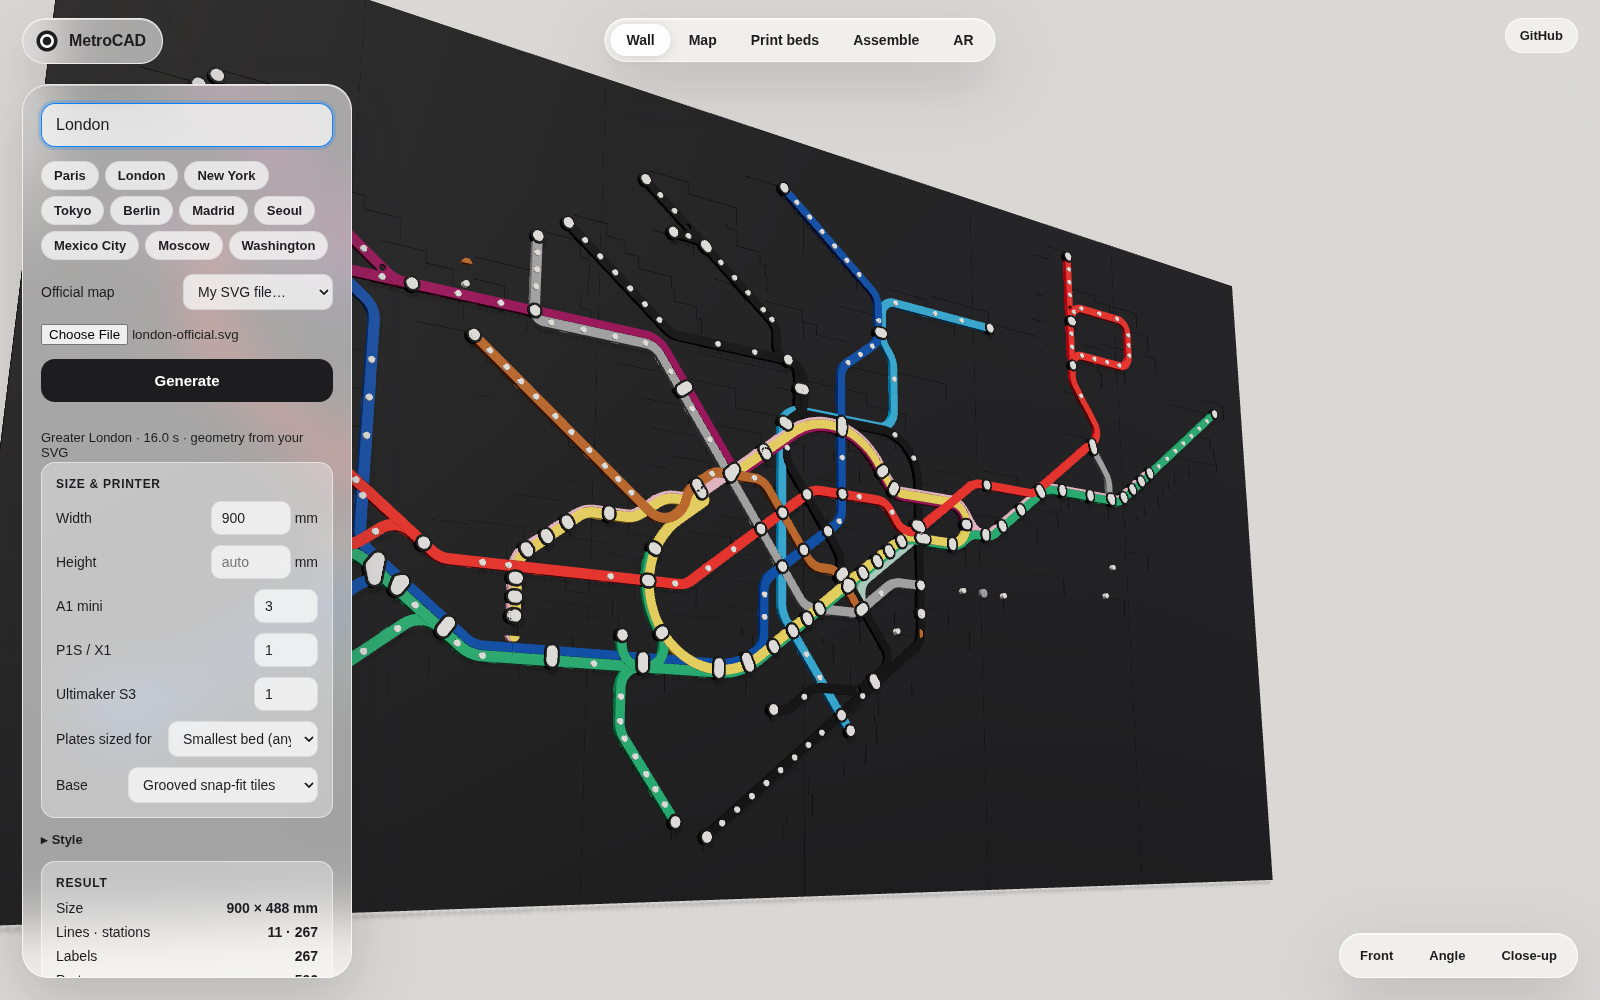
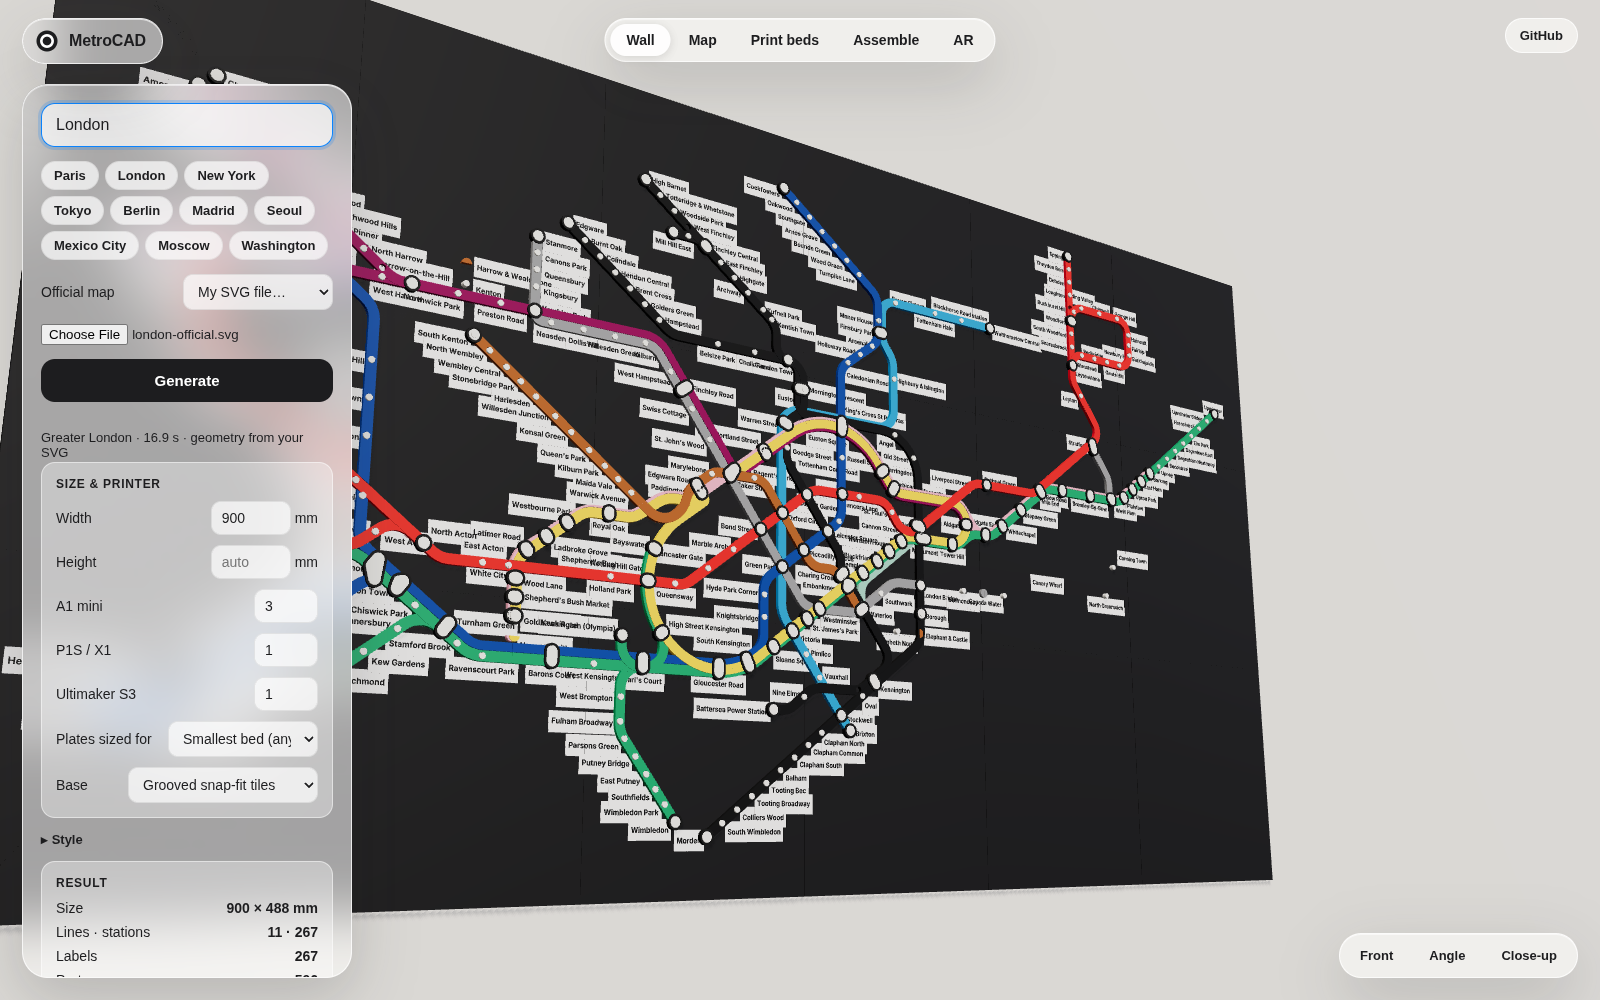
SVG import: split glyph-gap text runs, abbreviation expansion, fuzzy station matching; straight-through-interchange cost in octilinear straightener; London all-tabs screenshot script
Claude-Session: https://claude.ai/code/session_01MBsjaw49DwxCbAxCaJEcQU

diff --git a/septa-maps.html b/septa-maps.html
@@ -1,0 +1,61 @@
+<!DOCTYPE html>
+<html lang="en" data-critters-container>
+
+<head>
+  <meta charset="utf-8">
+
+  <!-- Google Tag Manager -->
+  <script>
+    (function (w, d, s, l, i) {
+      w[l] = w[l] || [];
+      w[l].push({ 'gtm.start': new Date().getTime(), event: 'gtm.js' });
+      var f = d.getElementsByTagName(s)[0],
+        j = d.createElement(s),
+        dl = l != 'dataLayer' ? '&l=' + l : '';
+      j.async = true;
+      j.src = 'https://www.googletagmanager.com/gtm.js?id=' + i + dl;
+      f.parentNode.insertBefore(j, f);
+    })(window, document, 'script', 'dataLayer', 'GTM-59M5TWG');
+  </script>
+  <!-- End Google Tag Manager -->
+
+  <title>
+    Southeastern Pennsylvania Transportation Authority | Serving Bucks, Chester, Delaware, Montgomery, and
+    Philadelphia counties
+  </title>
+  <base href="/">
+  <meta name="viewport" content="width=device-width, initial-scale=1">
+  <meta name="description" property="og:description" content="Serving Bucks, Chester, Delaware, Montgomery, and Philadelphia counties. Call (215) 580-7800 or TDD/TTY (215) 580-7853 for Customer Service.">
+  <link rel="icon" type="image/x-icon" href="favicon.ico">
+  <link rel="manifest" href="site.webmanifest">
+  <meta name="msapplication-TileColor" content="#f3f7f7">
+  <meta name="theme-color" content="#1a1818">
+
+  <!-- Open Graph Tags -->
+  <meta name="title" property="og:title" content="Southeastern Pennsylvania Transportation Authority (SEPTA)">
+  <meta property="og:type" content="website">
+  <meta property="og:url" content="https://www.septa.org/">
+  <meta name="image" property="og:image" content="assets/images/SEPTA_logo.png">
+  <meta property="og:locale" content="en_US">
+  <!-- End Open Graph Tags -->
+  <meta name="color-scheme" content="light only">
+<style>@import"https://fonts.googleapis.com/css2?family=Roboto:wght@300;400;500;700;900&display=swap";@charset "UTF-8";html,body{scroll-behavior:smooth}:root{--bs-blue:#0d6efd;--bs-indigo:#6610f2;--bs-purple:#6f42c1;--bs-pink:#d63384;--bs-red:#dc3545;--bs-orange:#fd7e14;--bs-yellow:#ffc107;--bs-green:#198754;--bs-teal:#20c997;--bs-cyan:#0dcaf0;--bs-white:#fff;--bs-gray:#6c757d;--bs-gray-dark:#343a40;--bs-gray-100:#f8f9fa;--bs-gray-200:#e9ecef;--bs-gray-300:#dee2e6;--bs-gray-400:#ced4da;--bs-gray-500:#adb5bd;--bs-gray-600:#6c757d;--bs-gray-700:#495057;--bs-gray-800:#343a40;--bs-gray-900:#212529;--bs-primary:#0264f7;--bs-secondary:#6c757d;--bs-success:#198754;--bs-info:#0dcaf0;--bs-warning:#ffc107;--bs-danger:#dc3545;--bs-light:#f8f9fa;--bs-dark:#212529;--bs-example:#900;--bs-example2:rgb(5, 68, 0);--bs-example3:rgb(23, 100, 139);--bs-example4:rgb(175, 40, 132);--bs-trip-red:rgb(197, 58, 34);--bs-header-blue:#1f4fa3;--bs-input-blue:#103270;--bs-mfl-primary:#008ad8;--bs-mfl-secondary:#0097d6;--bs-dark-secondary:#1a1818;--bs-black:#000;--bs-bus:#1a1818;--bs-rail:#4c748c;--bs-lightergray:#eceaea;--bs-lightgray:#d5d5d5;--bs-gray:#757575;--bs-light-yellow:rgb(248, 245, 218);--bs-septa-darkblue:#202846;--bs-septa-lightblue:#1f3f7e;--bs-septa-lighterblue:#99c2ff;--bs-septa-ctablue:#2968d6;--bs-septa-accent:#10b0aa;--bs-septa-lightgray:#c4c4c4;--bs-L:#0097d6;--bs-B:#f26100;--bs-T:#5a960a;--bs-G:#ffd700;--bs-D:#dc2e6b;--bs-M:#5f249f;--bs-neutral:#000000;--bs-null:#000000;--bs-primary-rgb:2, 100, 247;--bs-secondary-rgb:108, 117, 125;--bs-success-rgb:25, 135, 84;--bs-info-rgb:13, 202, 240;--bs-warning-rgb:255, 193, 7;--bs-danger-rgb:220, 53, 69;--bs-light-rgb:248, 249, 250;--bs-dark-rgb:33, 37, 41;--bs-example-rgb:153, 0, 0;--bs-example2-rgb:5, 68, 0;--bs-example3-rgb:23, 100, 139;--bs-example4-rgb:175, 40, 132;--bs-trip-red-rgb:197, 58, 34;--bs-header-blue-rgb:31, 79, 163;--bs-input-blue-rgb:16, 50, 112;--bs-mfl-primary-rgb:0, 138, 216;--bs-mfl-secondary-rgb:0, 151, 214;--bs-dark-secondary-rgb:26, 24, 24;--bs-bus-rgb:26, 24, 24;--bs-rail-rgb:76, 116, 140;--bs-lightergray-rgb:236, 234, 234;--bs-lightgray-rgb:213, 213, 213;--bs-gray-rgb:117, 117, 117;--bs-light-yellow-rgb:248, 245, 218;--bs-septa-darkblue-rgb:32, 40, 70;--bs-septa-lightblue-rgb:31, 63, 126;--bs-septa-lighterblue-rgb:153, 194, 255;--bs-septa-ctablue-rgb:41, 104, 214;--bs-septa-accent-rgb:16, 176, 170;--bs-septa-lightgray-rgb:196, 196, 196;--bs-L-rgb:0, 151, 214;--bs-B-rgb:242, 97, 0;--bs-T-rgb:90, 150, 10;--bs-G-rgb:255, 215, 0;--bs-D-rgb:220, 46, 107;--bs-M-rgb:95, 36, 159;--bs-neutral-rgb:0, 0, 0;--bs-null-rgb:0, 0, 0;--bs-primary-text-emphasis:#052c65;--bs-secondary-text-emphasis:#2b2f32;--bs-success-text-emphasis:#0a3622;--bs-info-text-emphasis:#055160;--bs-warning-text-emphasis:#664d03;--bs-danger-text-emphasis:#58151c;--bs-light-text-emphasis:#495057;--bs-dark-text-emphasis:#495057;--bs-primary-bg-subtle:#cfe2ff;--bs-secondary-bg-subtle:#e2e3e5;--bs-success-bg-subtle:#d1e7dd;--bs-info-bg-subtle:#cff4fc;--bs-warning-bg-subtle:#fff3cd;--bs-danger-bg-subtle:#f8d7da;--bs-light-bg-subtle:#fcfcfd;--bs-dark-bg-subtle:#ced4da;--bs-primary-border-subtle:#9ec5fe;--bs-secondary-border-subtle:#c4c8cb;--bs-success-border-subtle:#a3cfbb;--bs-info-border-subtle:#9eeaf9;--bs-warning-border-subtle:#ffe69c;--bs-danger-border-subtle:#f1aeb5;--bs-light-border-subtle:#e9ecef;--bs-dark-border-subtle:#adb5bd;--bs-white-rgb:255, 255, 255;--bs-black-rgb:0, 0, 0;--bs-font-sans-serif:system-ui, -apple-system, "Segoe UI", Roboto, "Helvetica Neue", "Noto Sans", "Liberation Sans", Arial, sans-serif, "Apple Color Emoji", "Segoe UI Emoji", "Segoe UI Symbol", "Noto Color Emoji";--bs-font-monospace:SFMono-Regular, Menlo, Monaco, Consolas, "Liberation Mono", "Courier New", monospace;--bs-gradient:linear-gradient(180deg, rgba(255, 255, 255, .15), rgba(255, 255, 255, 0));--bs-body-font-family:"Roboto", sans-serif;--bs-body-font-size:1rem;--bs-body-font-weight:400;--bs-body-line-height:1.5;--bs-body-color:#212529;--bs-body-color-rgb:33, 37, 41;--bs-body-bg:#fff;--bs-body-bg-rgb:255, 255, 255;--bs-emphasis-color:#000;--bs-emphasis-color-rgb:0, 0, 0;--bs-secondary-color:rgba(33, 37, 41, .75);--bs-secondary-color-rgb:33, 37, 41;--bs-secondary-bg:#e9ecef;--bs-secondary-bg-rgb:233, 236, 239;--bs-tertiary-color:rgba(33, 37, 41, .5);--bs-tertiary-color-rgb:33, 37, 41;--bs-tertiary-bg:#f8f9fa;--bs-tertiary-bg-rgb:248, 249, 250;--bs-heading-color:inherit;--bs-link-color:#0d6efd;--bs-link-color-rgb:13, 110, 253;--bs-link-decoration:underline;--bs-link-hover-color:#0a58ca;--bs-link-hover-color-rgb:10, 88, 202;--bs-code-color:#d63384;--bs-highlight-color:#212529;--bs-highlight-bg:#fff3cd;--bs-border-width:1px;--bs-border-style:solid;--bs-border-color:#dee2e6;--bs-border-color-translucent:rgba(0, 0, 0, .175);--bs-border-radius:.375rem;--bs-border-radius-sm:.25rem;--bs-border-radius-lg:.5rem;--bs-border-radius-xl:1rem;--bs-border-radius-xxl:2rem;--bs-border-radius-2xl:var(--bs-border-radius-xxl);--bs-border-radius-pill:50rem;--bs-box-shadow:0 .5rem 1rem rgba(0, 0, 0, .15);--bs-box-shadow-sm:0 .125rem .25rem rgba(0, 0, 0, .075);--bs-box-shadow-lg:0 1rem 3rem rgba(0, 0, 0, .175);--bs-box-shadow-inset:inset 0 1px 2px rgba(0, 0, 0, .075);--bs-focus-ring-width:.25rem;--bs-focus-ring-opacity:.25;--bs-focus-ring-color:rgba(13, 110, 253, .25);--bs-form-valid-color:#198754;--bs-form-valid-border-color:#198754;--bs-form-invalid-color:#dc3545;--bs-form-invalid-border-color:#dc3545}*,*:before,*:after{box-sizing:border-box}@media (prefers-reduced-motion: no-preference){:root{scroll-behavior:smooth}}body{margin:0;font-family:var(--bs-body-font-family);font-size:var(--bs-body-font-size);font-weight:var(--bs-body-font-weight);line-height:var(--bs-body-line-height);color:var(--bs-body-color);text-align:var(--bs-body-text-align);background-color:var(--bs-body-bg);-webkit-text-size-adjust:100%;-webkit-tap-highlight-color:rgba(0,0,0,0)}iframe{border:0}:root{--bs-breakpoint-xs:0;--bs-breakpoint-sm:576px;--bs-breakpoint-md:768px;--bs-breakpoint-lg:992px;--bs-breakpoint-xl:1200px;--bs-breakpoint-xxl:1400px}:root{--bs-btn-close-filter: }:root{--bs-carousel-indicator-active-bg:#fff;--bs-carousel-caption-color:#fff;--bs-carousel-control-icon-filter: }:root{--primary-dark:#202846;--septa-lightblue:#1f3f7e;--septa-lighterblue:#99c2ff;--lightestblue:#d4e1f7;--metro-black:#1a1818;--lightgray:#ebebeb;--gray:rgb(128, 128, 128);--darkgray:#333;--realtime:#078807;--focusblue:rgb(195, 219, 255);--formborder:rgb(206, 212, 218);--danger:#c00;--table-border:#ddd;--offwhite:#f5f5f5;--realtime-map-header-height:calc(48px + 1rem);--realtime-map-controls-height:200px;--realtime-map-menu-bottom-overlap:100px;--error-color:#000;--error-bg-color:#fffcd6;--error-border-color:#dfddbc}body{font-family:Roboto,sans-serif;scrollbar-gutter:stable;max-height:100%;overflow:auto}@media screen and (prefers-reduced-motion: reduce){html,body{scroll-behavior:auto}*{animation-duration:.001ms!important;animation-iteration-count:1!important;transition-duration:.001ms!important}}</style><link rel="stylesheet" href="styles.8ee336e1b46ae5d6.css" media="print" onload="this.media='all'"><noscript><link rel="stylesheet" href="styles.8ee336e1b46ae5d6.css"></noscript></head>
+
+<body>
+  <!-- Google Tag Manager (noscript) -->
+  <noscript>
+    <iframe src="https://www.googletagmanager.com/ns.html?id=GTM-59M5TWG" height="0" width="0" style="display: none; visibility: hidden"></iframe>
+  </noscript>
+  <!-- End Google Tag Manager (noscript) -->
+
+  <app-root></app-root>
+
+  <script>
+    if (navigator.userAgent.match(/samsung/i)) {
+      alert(`Your browser (Samsung Internet) may not show this website correctly if set in dark mode. Please consider using a standards-compliant browser instead.
+          \nWe recommend Google Chrome, Firefox, or Microsoft Edge.`);
+    }
+  </script>
+<script src="runtime.362ba90a4299b06a.js" type="module"></script><script src="polyfills.79a237e0bb1e4eaf.js" type="module"></script><script src="scripts.6dd9a5b2ffc2290f.js" defer></script><script src="main.e5ec2ca8fab281f9.js" type="module"></script></body>
+
+</html>

diff --git a/packages/core/src/svgimport.ts b/packages/core/src/svgimport.ts
@@ -193,13 +193,41 @@ export function extractSvg(src: string): SvgExtract {
       else if (el.tag === 'line') addPolys([[ap(local, [Number(el.attrs.x1 ?? 0), Number(el.attrs.y1 ?? 0)]), ap(local, [Number(el.attrs.x2 ?? 0), Number(el.attrs.y2 ?? 0)])]]);
       else if (el.tag === 'polyline' || el.tag === 'polygon') { const nums = (el.attrs.points ?? '').split(/[\s,]+/).filter(Boolean).map(Number); const pts: Vec2[] = []; for (let k = 0; k + 1 < nums.length; k += 2) pts.push(ap(local, [nums[k], nums[k + 1]])); if (el.tag === 'polygon' && pts.length) pts.push(pts[0]); addPolys([pts]); }
       else if (el.tag === 'text') {
-        const name = collectText(el).replace(/\s+/g, ' ').trim();
-        if (name) {
-          const tx = Number(el.attrs.x ?? (findFirst(el, 'tspan')?.attrs.x) ?? 0), ty = Number(el.attrs.y ?? (findFirst(el, 'tspan')?.attrs.y) ?? 0);
-          const p = ap(local, [tx, ty]);
-          const angle = -Math.atan2(local[1], local[0]) * 180 / Math.PI;
-          const size = Number(String(st['font-size'] ?? '10').replace(/[a-z%]+$/, '')) * mscale(local);
-          texts.push({ name, x: p[0], y: p[1], anchor: (st['text-anchor'] as any) ?? 'start', angle: Math.round(angle * 10) / 10, size });
+        const angle = -Math.atan2(local[1], local[0]) * 180 / Math.PI;
+        const size = Number(String(st['font-size'] ?? '10').replace(/[a-z%]+$/, '')) * mscale(local);
+        const anchor = (st['text-anchor'] as any) ?? 'start';
+        const firstNum = (v?: string) => (v === undefined ? undefined : Number(String(v).trim().split(/[\s,]+/)[0]));
+        // PDF-derived SVGs put several labels into one <text>, one positioned <tspan> each: treat those separately.
+        const positioned = el.children.filter((c) => c.tag === 'tspan' && c.attrs.x !== undefined && c.attrs.y !== undefined);
+        if (positioned.length >= 2) {
+          const fs = Number(String(st['font-size'] ?? '10').replace(/[a-z%]+$/, ''));
+          for (const c of positioned) {
+            const raw = collectText(c);
+            const xs = String(c.attrs.x).trim().split(/[\s,]+/).map(Number);
+            const y = firstNum(c.attrs.y)!;
+            // Per-glyph x positions: a gap wider than ~1.2 em separates two labels on the same baseline.
+            const chars = [...raw];
+            const runs: { text: string; x: number }[] = [];
+            if (xs.length >= chars.length && chars.length > 1) {
+              let start = 0;
+              for (let k = 1; k <= chars.length; k++) {
+                if (k === chars.length || xs[k] - xs[k - 1] > fs * 1.2) { runs.push({ text: chars.slice(start, k).join(''), x: xs[start] }); start = k; }
+              }
+            } else runs.push({ text: raw, x: xs[0] });
+            for (const r of runs) {
+              const name = r.text.replace(/\s+/g, ' ').trim();
+              if (!name) continue;
+              const p = ap(local, [r.x, y]);
+              texts.push({ name, x: p[0], y: p[1], anchor, angle: Math.round(angle * 10) / 10, size });
+            }
+          }
+        } else {
+          const name = collectText(el).replace(/\s+/g, ' ').trim();
+          if (name) {
+            const tx = firstNum(el.attrs.x) ?? firstNum(findFirst(el, 'tspan')?.attrs.x) ?? 0, ty = firstNum(el.attrs.y) ?? firstNum(findFirst(el, 'tspan')?.attrs.y) ?? 0;
+            const p = ap(local, [tx, ty]);
+            texts.push({ name, x: p[0], y: p[1], anchor, angle: Math.round(angle * 10) / 10, size });
+          }
         }
       }
       else if (el.tag === 'use' || el.tag === 'circle' || el.tag === 'ellipse') {
@@ -242,6 +270,16 @@ function collectText(el: El): string {
 }
 
 /* ------------------------------ layout from SVG ------------------------------ */
+
+/** Expand the abbreviations transit maps use so they normalise like OSM names. */
+export function expandAbbrev(name: string): string {
+  return name
+    .replace(/\bTrans\.?\s*Ctr\.?/gi, 'Transportation Center').replace(/\bT\.?\s?C\.?(?=\s|$)/g, 'Transportation Center')
+    .replace(/\bSta\.?(?=\s|$)/gi, 'Station').replace(/\bSt\.(?=\s|$)/g, 'Street').replace(/\bAve\.?(?=\s|$)/gi, 'Avenue').replace(/\bRd\.?(?=\s|$)/gi, 'Road')
+    .replace(/\bJct\.?(?=\s|$)/gi, 'Junction').replace(/\bCtr\.?(?=\s|$)/gi, 'Center').replace(/\bPkwy\.?(?=\s|$)/gi, 'Parkway').replace(/\bMt\.?(?=\s)/gi, 'Mount')
+    .replace(/\bTerm\.?(?=\s|$)/gi, 'Terminal').replace(/\bTerms?\.?(?=\s|$)/gi, 'Terminals').replace(/\bIntl\.?(?=\s|$)/gi, 'International')
+    .replace(/\s*\/\s*/g, '-');
+}
 
 function colorDist(a: string, b: string): number {
   const p = (h: string) => [parseInt(h.slice(1, 3), 16), parseInt(h.slice(3, 5), 16), parseInt(h.slice(5, 7), 16)];
@@ -294,14 +332,30 @@ export function layoutFromSvg(svgSource: string, net: MetroNetwork, params: Desi
   const candidates = [...colourStats.entries()].filter(([c, s]) => s.len > 50 && c !== '#ffffff');
   const tol = opts.colorTolerance ?? 230;
   // Station label positions in SVG units, per station name.
+  const labelKey = (name: string) => normalizeName(expandAbbrev(name));
   const textPos = new Map<string, SvgExtract['texts'][number]>();
-  for (const t of ex.texts) { const k = normalizeName(t.name); if (k && !textPos.has(k)) textPos.set(k, t); }
+  for (const t of ex.texts) { const k = labelKey(t.name); if (k && !textPos.has(k)) textPos.set(k, t); }
   const markerPos = new Map<string, { x: number; y: number }>();
-  for (const mk of ex.markers) { const k = normalizeName(mk.name); if (k && !markerPos.has(k)) markerPos.set(k, mk); }
+  for (const mk of ex.markers) { const k = labelKey(mk.name); if (k && !markerPos.has(k)) markerPos.set(k, mk); }
+  const textKeys = [...textPos.keys()];
+  /** Exact key, else the best fuzzy candidate (prefix/containment on normalised names, 4+ chars). */
+  const findText = (st: { name: string; nameEn?: string }): SvgExtract['texts'][number] | undefined => {
+    const keys = [labelKey(st.name), labelKey(st.nameEn ?? ''), ...st.name.split(/ \/ /).map((n) => labelKey(n))].filter(Boolean);
+    for (const k of keys) { const t = textPos.get(k); if (t) return t; }
+    let best: { t: SvgExtract['texts'][number]; score: number } | undefined;
+    for (const k of keys) for (const tk of textKeys) {
+      if (tk.length < 4) continue;
+      let score = 0;
+      if (k.startsWith(tk) || tk.startsWith(k)) score = Math.min(k.length, tk.length) / Math.max(k.length, tk.length) + 0.5;
+      else if (k.includes(tk) || tk.includes(k)) score = Math.min(k.length, tk.length) / Math.max(k.length, tk.length);
+      if (score > 0.55 && (!best || score > best.score)) best = { t: textPos.get(tk)!, score };
+    }
+    return best?.t;
+  };
   const posOf = (st: { name: string; nameEn?: string }): Vec2 | undefined => {
-    const keys = [normalizeName(st.name), normalizeName(st.nameEn ?? ''), normalizeName(st.name.split(/ \/ /)[0])];
+    const keys = [labelKey(st.name), labelKey(st.nameEn ?? ''), labelKey(st.name.split(/ \/ /)[0])];
     for (const k of keys) { const mk = markerPos.get(k); if (mk) return [mk.x, mk.y]; }
-    for (const k of keys) { const t = textPos.get(k); if (t) return [t.x, t.y]; }
+    const t = findText(st); if (t) return [t.x, t.y];
     return undefined;
   };
   // A line gets the candidate colour (within tolerance) whose strokes run past the most of its stations.
@@ -335,8 +389,8 @@ export function layoutFromSvg(svgSource: string, net: MetroNetwork, params: Desi
 
   // Name → drawing position (label text or explicit marker), in mm.
   const drawingPos = (st: { name: string; nameEn?: string }): { x: number; y: number; source: 'marker' | 'text'; t?: SvgExtract['texts'][number] } | undefined => {
-    const keys = [normalizeName(st.name), normalizeName(st.nameEn ?? ''), normalizeName(st.name.split(/ \/ /)[0])];
-    const t = keys.map((k) => textPos.get(k)).find(Boolean);
+    const keys = [labelKey(st.name), labelKey(st.nameEn ?? ''), labelKey(st.name.split(/ \/ /)[0])];
+    const t = findText(st);
     for (const k of keys) { const mk = markerPos.get(k); if (mk) return { x: mk.x, y: mk.y, source: 'marker', t }; }
     if (t) return { x: t.x, y: t.y, source: 'text', t };
     return undefined;

diff --git a/prt-maps.html b/prt-maps.html
@@ -1,0 +1,29 @@
+<!DOCTYPE html PUBLIC "-//W3C//DTD XHTML 1.0 Strict//EN" "http://www.w3.org/TR/xhtml1/DTD/xhtml1-strict.dtd">
+<html xmlns="http://www.w3.org/1999/xhtml">
+<head>
+<meta http-equiv="Content-Type" content="text/html; charset=iso-8859-1"/>
+<title>404 - File or directory not found.</title>
+<style type="text/css">
+<!--
+body{margin:0;font-size:.7em;font-family:Verdana, Arial, Helvetica, sans-serif;background:#EEEEEE;}
+fieldset{padding:0 15px 10px 15px;} 
+h1{font-size:2.4em;margin:0;color:#FFF;}
+h2{font-size:1.7em;margin:0;color:#CC0000;} 
+h3{font-size:1.2em;margin:10px 0 0 0;color:#000000;} 
+#header{width:96%;margin:0 0 0 0;padding:6px 2% 6px 2%;font-family:"trebuchet MS", Verdana, sans-serif;color:#FFF;
+background-color:#555555;}
+#content{margin:0 0 0 2%;position:relative;}
+.content-container{background:#FFF;width:96%;margin-top:8px;padding:10px;position:relative;}
+-->
+</style>
+</head>
+<body>
+<div id="header"><h1>Server Error</h1></div>
+<div id="content">
+ <div class="content-container"><fieldset>
+  <h2>404 - File or directory not found.</h2>
+  <h3>The resource you are looking for might have been removed, had its name changed, or is temporarily unavailable.</h3>
+ </fieldset></div>
+</div>
+</body>
+</html>

diff --git a/packages/core/src/layout/force.ts b/packages/core/src/layout/force.ts
@@ -256,6 +256,17 @@ export function straighten(graph: StationGraph, cell: number, rounds = 4, length
       const d = pointSegDist(n.pos, a.pos, b.pos);
       if (d < 0.8) cost += 3 * (0.8 - d + 0.1);
     }
+    // a line passing through this node should continue straight (official diagrams rarely bend at interchanges)
+    const inc = incident.get(n.id) ?? [];
+    const byLine = new Map<string, Corridor[]>();
+    for (const c of inc) for (const l of c.lines) (byLine.get(l) ?? byLine.set(l, []).get(l)!).push(c);
+    for (const cs of byLine.values()) {
+      if (cs.length !== 2) continue;
+      const other = (c: Corridor) => nodes.get(c.a === n.id ? c.b : c.a)!.pos;
+      const d1 = norm(sub(other(cs[0]), n.pos)), d2 = norm(sub(other(cs[1]), n.pos));
+      const straightness = -(d1[0] * d2[0] + d1[1] * d2[1]); // 1 = straight through, -1 = doubles back
+      cost += 0.6 * (1 - straightness) / 2;
+    }
     // corridors incident to n must not pass over other nodes
     for (const c of incident.get(n.id) ?? []) {
       const a = nodes.get(c.a)!, b = nodes.get(c.b)!;
